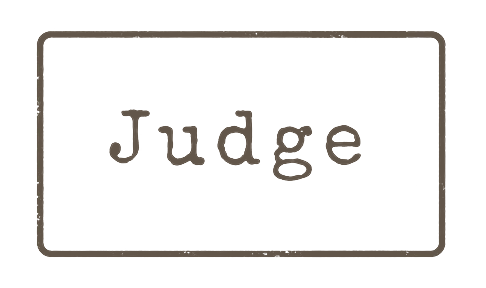
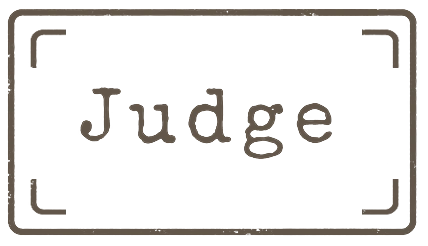
Modjam: updated postcard density

Changed region(s): [[0.0, 0.0285, 0.972, 0.9675], [0.1822, 0.3415, 0.7897, 0.6545]]

diff --git a/modjam/app.js b/modjam/app.js
@@ -165,12 +165,25 @@
     return minimum + Math.random() * (maximum - minimum);
   }
 
+  function postcardDensityMultiplier() {
+    var path = location.pathname.replace(/\/+$/, '') || '/';
+    if (path === '/modjam/archive') return 4;
+    if (path === '/modjam/awards') return 2;
+    return 1;
+  }
+
+  function pickPostcards(count) {
+    var postcards = [];
+    while (postcards.length < count) postcards = postcards.concat(shuffledCopy(postcardData));
+    return postcards.slice(0, count);
+  }
+
   function postcardBackdrop() {
     if (!postcardData.length) return '';
     var viewportLimit = window.innerWidth < 1120 ? 14 : postcardData.length;
     var heightLimit = Math.max(6, Math.ceil(Math.max(main.scrollHeight, window.innerHeight) / 190));
-    var postcardLimit = Math.min(viewportLimit, heightLimit);
-    var postcards = shuffledCopy(postcardData).slice(0, postcardLimit);
+    var postcardLimit = Math.min(viewportLimit, heightLimit) * postcardDensityMultiplier();
+    var postcards = pickPostcards(postcardLimit);
     var topStart = main.classList.contains('is-home') ? 28 : 8;
     var topEnd = 95;
     return '<div class="postcard-backdrop" aria-hidden="true">' + postcards.map(function (postcard, index) {